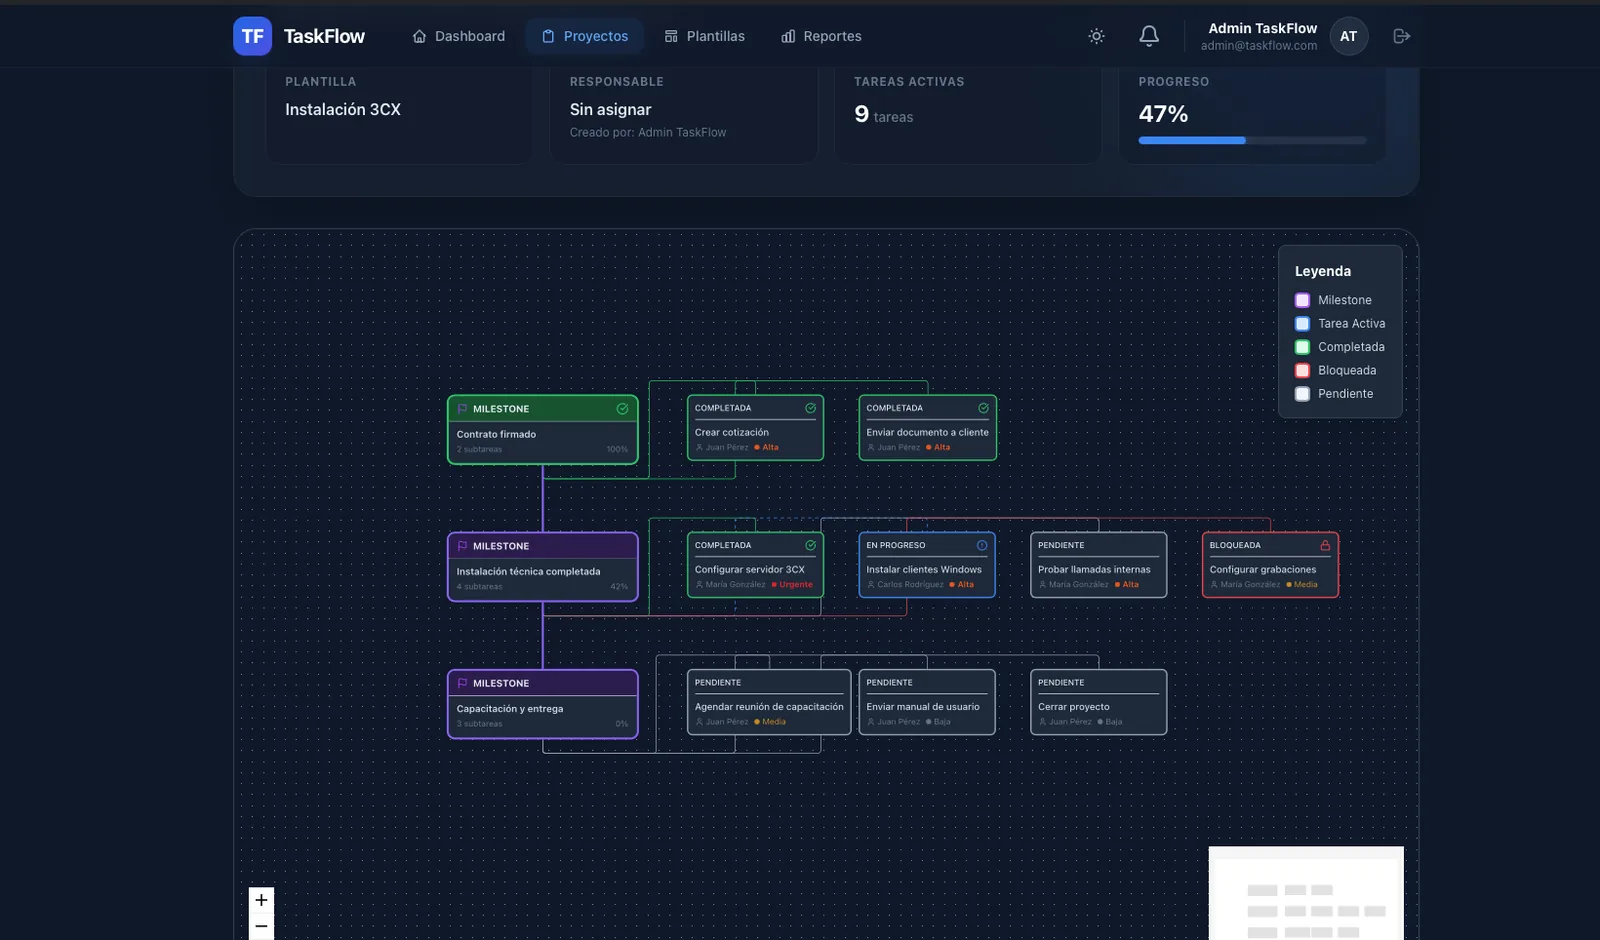
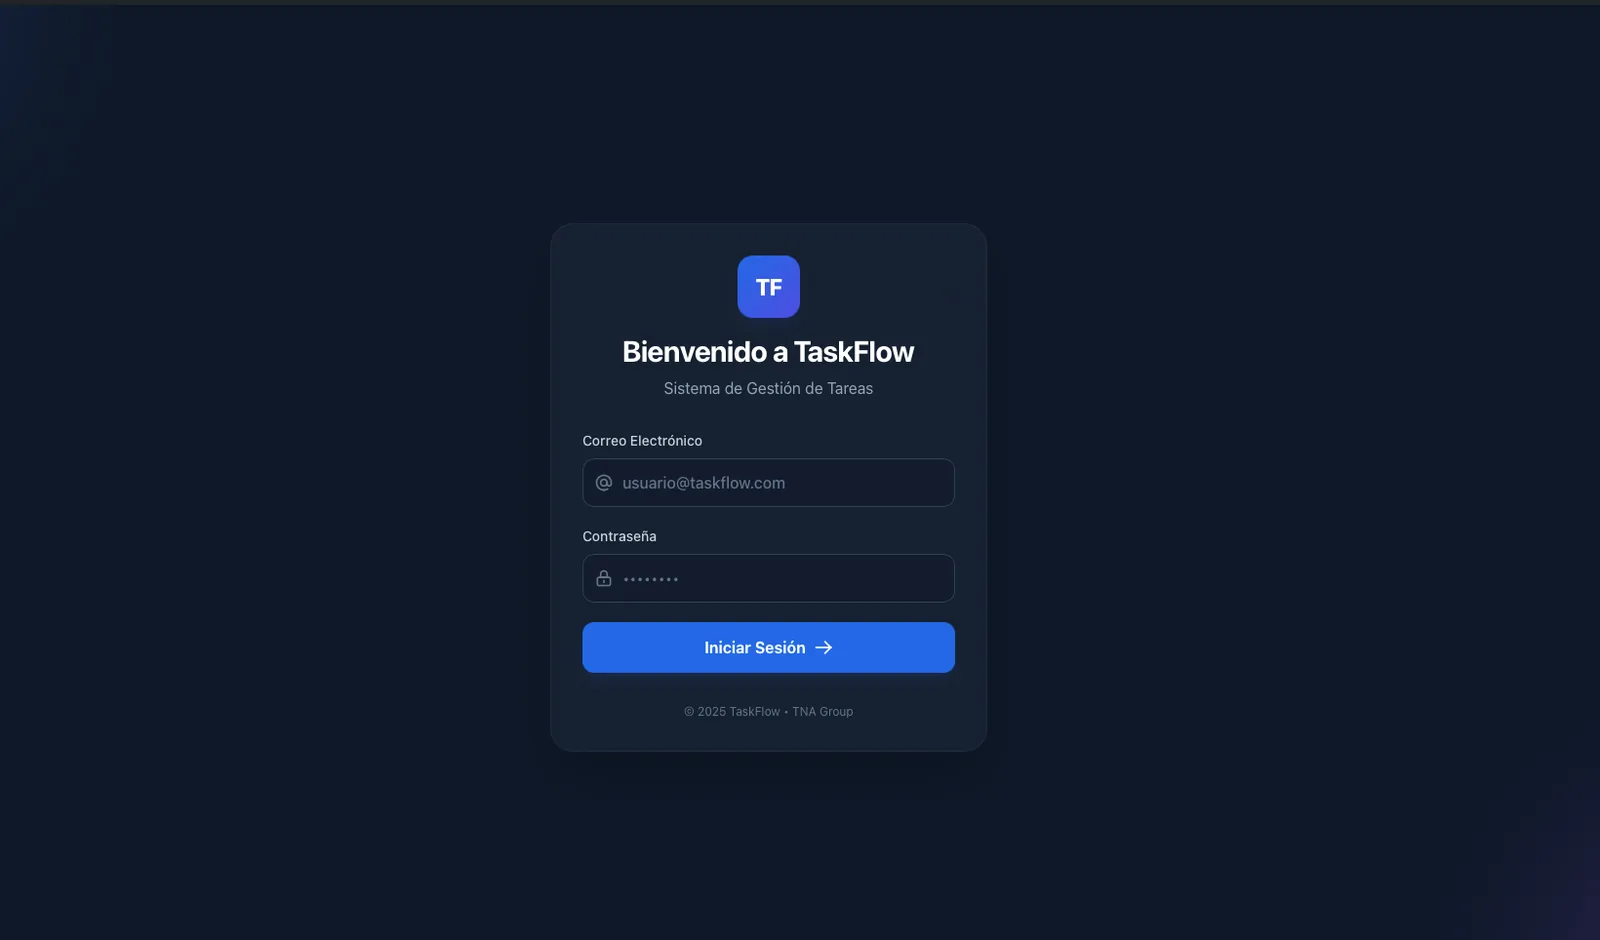
Poner la pantalla de acceso de Taskflow como portada
Reemplaza al grafo de dependencias, que sigue disponible en la galeria como
cuarta captura. Se actualiza el alt de la portada, que describia el grafo.

Claude-Session: https://claude.ai/code/session_01HiBisS8ojnBCBvaF3Neo6s

diff --git a/src/i18n/translations.ts b/src/i18n/translations.ts
@@ -251,7 +251,7 @@ const es = {
 	"project.taskflow.summary":
 		"Gestión de flujos de trabajo con dependencias y control de SLA.",
 	"project.taskflow.dialogLabel": "Vista ampliada de la galería de Taskflow",
-	"project.taskflow.cover.alt": "Grafo de dependencias de un flujo, con los hitos y las tareas que cada uno libera",
+	"project.taskflow.cover.alt": "Pantalla de acceso de Taskflow, con el formulario de correo y contraseña",
 	"project.taskflow.cover.label": "TASKFLOW.PNG",
 	"project.taskflow.shot.dashboard.alt":
 		"Panel de inicio con flujos activos, tareas pendientes, vencidas y la productividad de la semana",
@@ -676,7 +676,7 @@ const en: Record<TranslationKey, string> = {
 	"project.taskflow.title": "Taskflow",
 	"project.taskflow.summary": "Workflow management with dependencies and SLA tracking.",
 	"project.taskflow.dialogLabel": "Expanded gallery view for Taskflow",
-	"project.taskflow.cover.alt": "Dependency graph of a flow, with the milestones and the tasks each one releases",
+	"project.taskflow.cover.alt": "Taskflow sign-in screen, with the email and password form",
 	"project.taskflow.cover.label": "TASKFLOW.PNG",
 	"project.taskflow.shot.dashboard.alt":
 		"Home dashboard with active flows, pending and overdue tasks, and the week's productivity",
